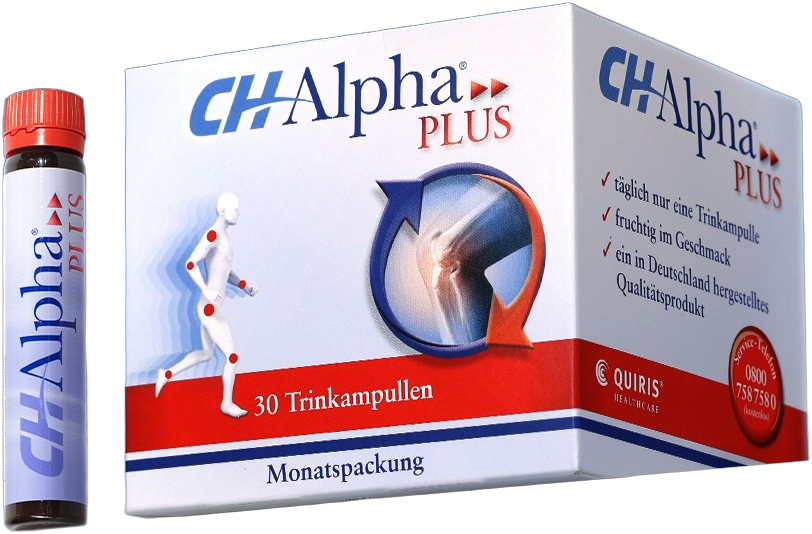
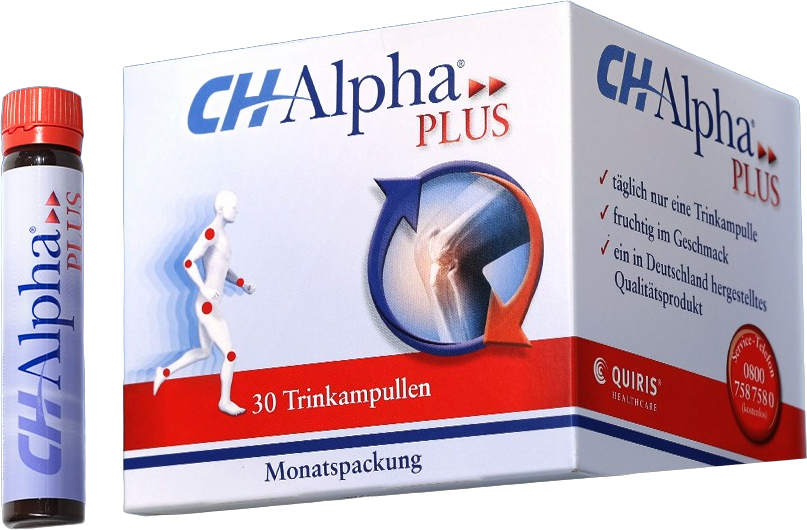
Fix product cut-out aspect ratio and remove faint floor residue
Claude-Session: https://claude.ai/code/session_01TTjgyF9H8C2C39MtFqZDGM

diff --git a/src/chalpha/Product.tsx b/src/chalpha/Product.tsx
@@ -2,7 +2,7 @@ import { Img, interpolate, staticFile, useCurrentFrame } from "remotion";
 
 export const BOX_IMAGE = {
   src: staticFile("chalpha/product.png"),
-  ratio: 760 / 854,
+  ratio: 530 / 807,
 };
 export const AMPOULE_IMAGE = {
   src: staticFile("chalpha/ampoule.png"),
